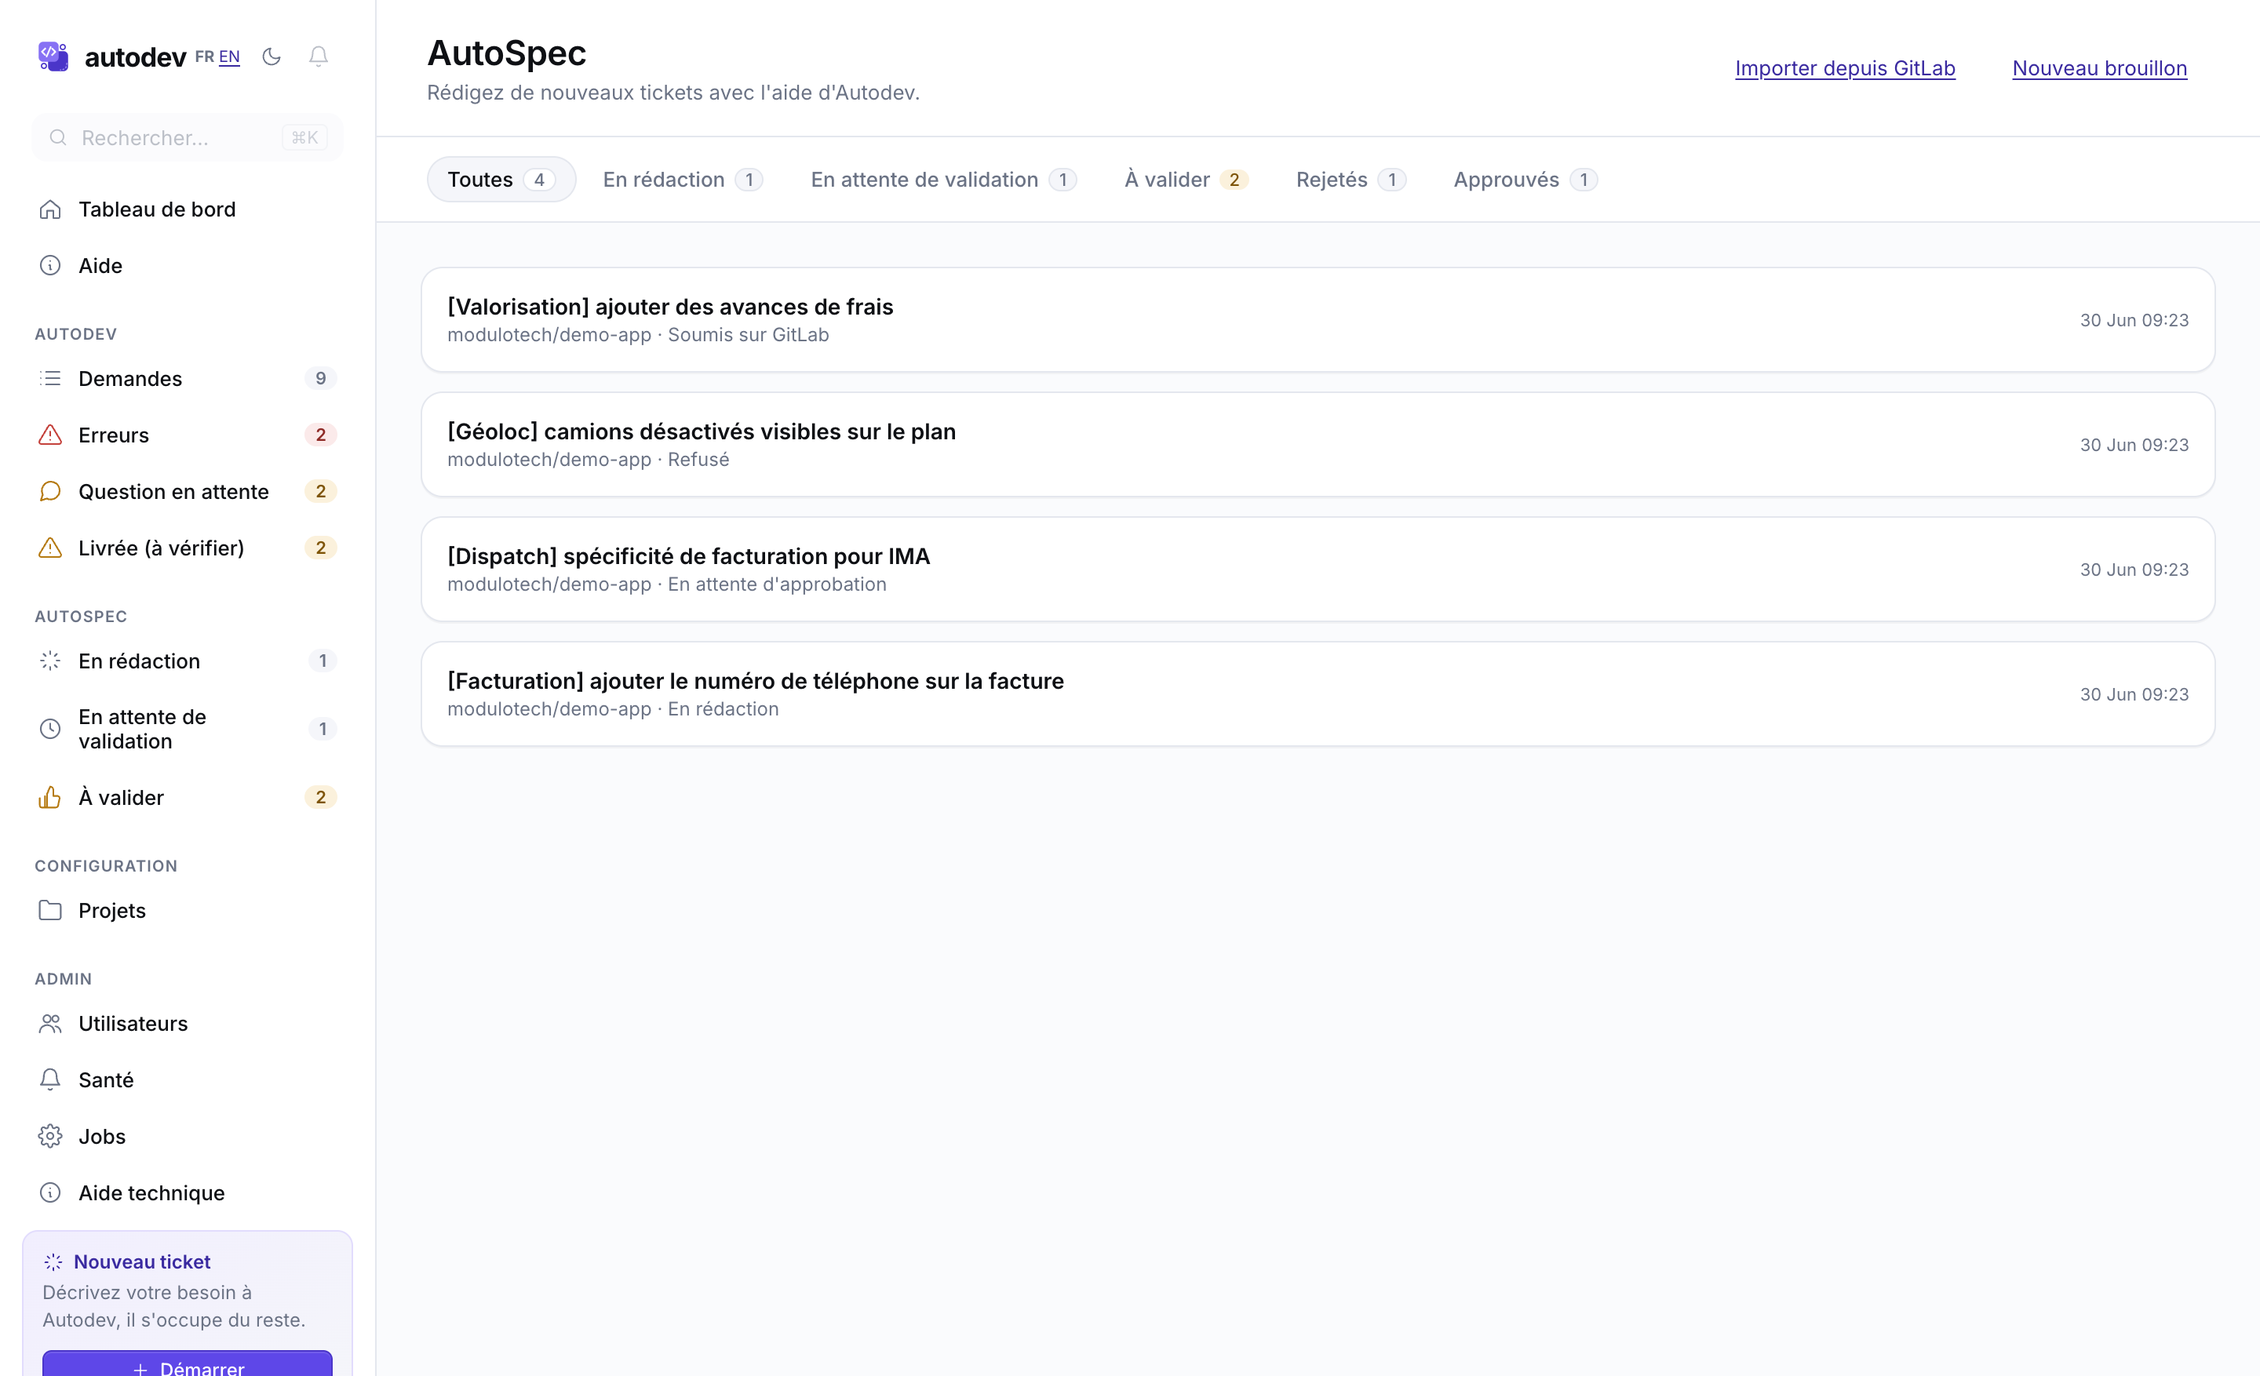
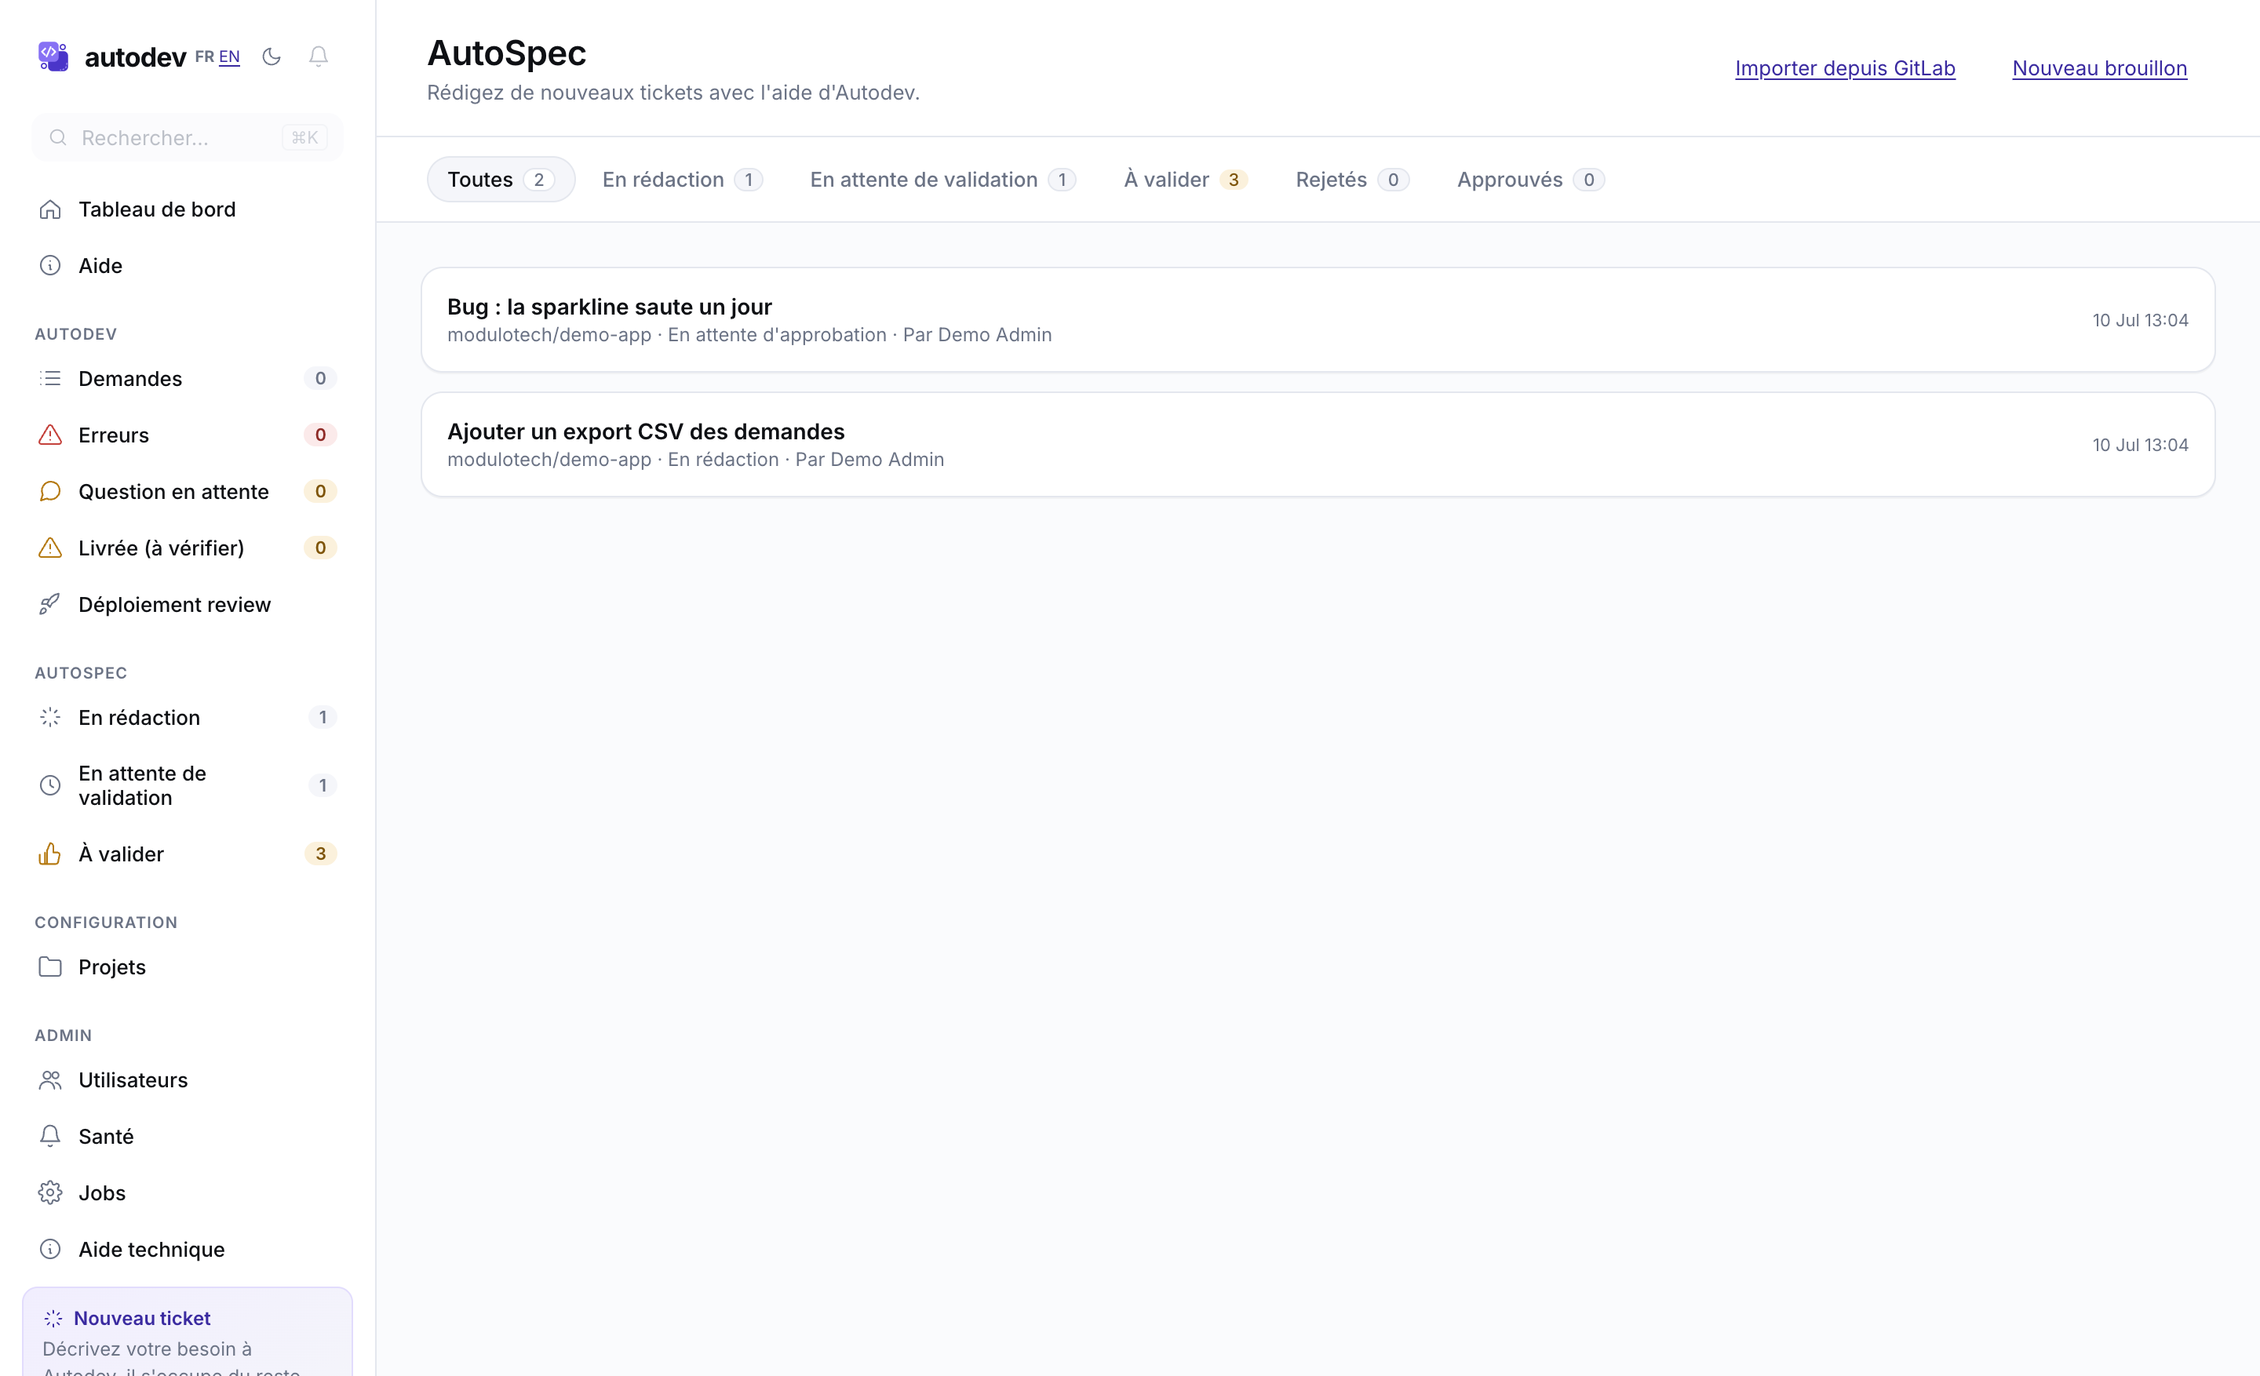
docs: refresh usage guides + screenshots for tasks #35/#38/#39/#40/#43
Sync docs/usage/autodev-functional-usage.md (/help) and
autodev-technical-usage.md (/admin/help) with the high-priority batch:

- New "Déploiement review" screen + sidebar entry, with screenshot (#43)
- Project Team tab = manual owner management (list + add/remove), replacing
  the stale "GitLab team sync coming soon" FAQ, with screenshot (#38)
- Draft author shown across the AutoSpec list tabs, refreshed screenshot (#40)
- Delete-a-draft action documented (#39)
- Contact line on delivered-review cards (#35)
- Technical routes table: /deploy_review*, /projects/:slug/owners,
  /autospec_drafts/:id/destroy; owner-sync model rewrite in the GitLab sync /
  Admin Users sections; deletable_by? / authorize_deletable! in the AutoSpec
  permissions matrix

Screenshots captured against a throwaway demo DB (no prod data). Render parity
verified (16/16 functional, 7/7 technical), no jargon leak, date bumped.

diff --git a/docs/usage/autodev-technical-usage.md b/docs/usage/autodev-technical-usage.md
@@ -2,7 +2,7 @@
 title: "Autodev — Guide technique"
 subtitle: "Routes admin, configuration projet, CLI, machine à états"
 author: "Modulotech"
-date: 2026-07-06
+date: 2026-07-10
 lang: fr
 documentclass: article
 papersize: a4
@@ -41,11 +41,16 @@ L'instance prod tourne sur `https://autodev.netbird.modulotech.fr`, derrière le
 | `/issues/:id/close` (POST) | `IssuesController#close` | Clôture manuelle (événement AASM `close`, gatée sur le membership projet) — `closed` depuis n'importe quel état |
 | `/issues/:id/deploy_review` (GET) | `IssuesController#deploy_review` | Turbo-frame paresseux : sonde la disponibilité du job `deploy_review` (`Autodev::DeployReview#availability`). Rendu **inconditionnellement** sur chaque page d'issue (task #28) — sur une issue sans branche/MR il renvoie `:no_branch` sans appel GitLab et affiche un bouton désactivé + un motif au lieu de rien |
 | `/issues/:id/deploy_review` (POST) | `IssuesController#trigger_deploy_review` | Déclenche le job CI `deploy_review` (redéploiement de l'env de review) |
+| `/deploy_review` (GET) | `DeployReviewsController#index` | Sélecteur de projet (parmi les projets visibles) + liste des MR ouvertes du projet (API GitLab, `per_page: 100`), chacune avec un `DeployReviewFrame` paresseux ; MR déjà suivie annotée d'un badge vers la fiche issue (task #43) |
+| `/deploy_review/mr` (GET) | `DeployReviewsController#availability` | Sonde paresseuse (`project`, `mr_iid`) — `Autodev::DeployReview#availability` sur une `Target` légère (`project_path`, `branch_name`, `mr_iid`) au lieu d'une row Issue |
+| `/deploy_review/mr` (POST) | `DeployReviewsController#trigger` | Déclenche le déploiement (`project`, `mr_iid`), audit `deploy_review.manual`. `authorize_project!` (403 hors projets visibles) gate `availability` **et** `trigger` — la sécurité ne repose pas sur l'UI |
 | `/projects` | `ProjectsController#index` | Union des rows `projects` + entrées YAML pas encore importées |
 | `/projects/new` (+ POST `create`) | `ProjectsController#new`/`#create` | Création d'un projet en base (admin only) — enfile `SyncGitlabMembershipsJob` au succès |
 | `/projects/:slug/edit` (+ PATCH `update`) | `ProjectsController#edit`/`#update` | Édition de la config per-projet en base (gatée membership/admin) |
 | `/projects/:slug/ticket_templates` (index/new/create) | `TicketTemplatesController` | Modèles de ticket AutoSpec du projet (gaté membership/admin, 404 si pas de row projet) |
 | `/projects/:slug/ticket_templates/:id` (edit/update/destroy) | `TicketTemplatesController` | Édition / suppression d'un modèle (`:id` numérique) |
+| `/projects/:slug/owners` (POST) | `ProjectOwnersController#create` | Promeut un membre du projet (`user_id`) au rôle `owner` — audit `project.owner_granted`. Gaté `can_manage_owners?` (admin ou owner du projet), 403 sinon ; refus si le candidat n'est pas membre (task #38) |
+| `/projects/:slug/owners/:user_id` (DELETE) | `ProjectOwnersController#destroy` | Rétrograde un owner en `contributor` — audit `project.owner_revoked`. Même gate |
 | `/projects/:slug` | `ProjectsController#show` | Slug = `group/sub/name` encodé en `group__sub__name` |
 | `/stream` | `StreamController#show` | Server-Sent Events, `ActionController::Live` |
 | `/locale/:lang` | `LocaleController#update` | Set le cookie `locale`, redirige sur `back` |
@@ -57,6 +62,7 @@ L'instance prod tourne sur `https://autodev.netbird.modulotech.fr`, derrière le
 | `/autospec_drafts/:id/chat` (POST) | `AutospecDraftsController#chat` | Tour de chat (`Autospec::Chat`), 503 si clé Anthropic absente |
 | `/autospec_drafts/:id/apply_suggestion` (POST) | `AutospecDraftsController#apply_suggestion` | Applique un `tool_use` proposé par le modèle |
 | `/autospec_drafts/:id/{submit_for_approval,retract,approve,reject}` (POST) | `AutospecDraftsController` | Workflow d'approbation (§J) |
+| `/autospec_drafts/:id/destroy` (POST) | `AutospecDraftsController#destroy` | Hard-delete d'un brouillon non `submitted` (route brute, pas une action `resources` — Rails replierait un membre `destroy` sur `/:id`). Gaté `authorize_deletable!` (auteur / owner / admin), 409 `draft_not_deletable` si `submitted` (task #39) |
 | `/autospec_drafts/:id/autospec_attachments` (POST + DELETE `:id`) | `AutospecAttachmentsController` | Pièces jointes image (ActiveStorage, ≤ 10 Mo) |
 | `/help` | `HelpController#show` | Guide utilisateur rendu (`HelpDoc.render(:functional)`) |
 | `/help/images/:filename` | `HelpController#image` | Captures d'écran des deux guides (partagé) |
@@ -98,7 +104,7 @@ Colonnes :
 - **Status** — `active` ou `inactive` (rebasculé selon les memberships GitLab) ;
 - **Memberships** — entrées de `project_memberships`, rôle `owner` ou `contributor`.
 
-Les memberships sont dérivés d'une synchro GitLab (commande CLI `--sync-memberships`). Pas d'édition manuelle depuis l'UI : la sync GitLab fait foi. Pour bootstrapper le premier admin, utiliser `autodev --seed-admin EMAIL`.
+Depuis la task #38, seuls les **contributeurs** sont dérivés de la synchro GitLab (`--sync-memberships`, access-level ≥ 20). Le rôle **owner** est une désignation **manuelle** (onglet *Équipe* d'un projet, `ProjectOwnersController`) : la synchro ne crée, ne rétrograde ni ne révoque jamais un owner. Il n'y a donc pas d'édition des contributeurs depuis l'UI (la sync GitLab fait foi), mais les owners, eux, se gèrent à la main. Pour bootstrapper le premier admin, utiliser `autodev --seed-admin EMAIL`.
 
 \newpage
 
@@ -199,6 +205,8 @@ Les commandes d'environnement (`setup`/`test`/`lint`/`run`) vivent à part dans 
 ## Synchronisation GitLab
 
 Les memberships sont alimentés par `autodev --sync-memberships` (manuel ou via la tâche planifiée `0 3 * * *`).
+
+`Autodev::GitlabMembershipSync` mappe l'access-level GitLab ≥ 20 (reporter) vers `contributor`, et rien en dessous — le seuil `owner` a disparu du mapping (task #38). À la réconciliation, les rows `owner` sont **exclues** : jamais rétrogradées, jamais révoquées. Le rôle `owner` est donc désormais posé **exclusivement à la main** via l'onglet *Équipe* de la page projet, et sert de marqueur fiable de « désignation manuelle » (aucune colonne dédiée). Une data-migration (`20260710000001_convert_project_owners_to_contributors`) a rétrogradé tous les owners hérités de l'ancienne synchro : après déploiement, un projet n'a plus aucun owner tant qu'un admin n'en désigne (amorçage manuel assumé).
 
 Attention : un `--sync-memberships` lancé sur une base `projects` vide désactive silencieusement tous les users. Toujours vérifier `Project.count > 0` avant de lancer la sync.
 
@@ -428,8 +436,9 @@ Prédicats portés par le modèle (appelés par le contrôleur ET les vues pour 
 - `destination_choosable_by?` — contributeur-auteur → `human` seulement ; owner-auteur → `human` ou `autodev` (le « envoyer à AutoDev » est un verrou produit owner-only).
 - `retractable_by?` — auteur + `pending_approval`.
 - `votable_by?` — owner du projet + `pending_approval` (l'idempotence « déjà voté à cette itération » est vérifiée par `ApprovalRecorder`, pas ici).
+- `deletable_by?` — non `submitted` ET (auteur OU owner du projet OU admin) : autorise le hard-delete tant que le brouillon n'est pas validé (`drafting` / `pending_approval` / `rejected`) — task #39.
 
-`AutospecDraftsController` applique trois before-actions : `authorize_view!` (show), `authorize_voter!` (approve/reject), `authorize_author!` (le reste).
+`AutospecDraftsController` applique quatre before-actions : `authorize_view!` (show), `authorize_voter!` (approve/reject), `authorize_deletable!` (destroy), `authorize_author!` (le reste). `authorize_deletable!` vérifie le **rôle** (403 si ni auteur, ni owner, ni admin) indépendamment de l'état ; la garde d'**état** (409 `draft_not_deletable` sur un brouillon `submitted`, déjà exporté vers GitLab) est appliquée dans `#destroy`. Les dépendances (`autospec_messages` / `autospec_attachments` / `autospec_approvals`) sont nettoyées par les `dependent: destroy` existants.
 
 ## Services
 

diff --git a/CHANGELOG.md b/CHANGELOG.md
@@ -7,10 +7,12 @@
 - **"Livrée (à vérifier)" cards now tell the CSM who to contact (task #35).** The yellow "Intervention manuelle requise" panel shown for `needs_attention` rows (`stagnation_pipeline`, `stagnation_discussions`, `review_limit_reached`, `review_failures_exhausted`) explained the problem but never said who could act on it. `WatchCards#render_cause_panel` now renders a common contact line (new `web_errors_contact` i18n key) under the cause body, gated on `row[:needs_attention]` — it does not appear on the plain `/errors` failures or on pending `needs_clarification` questions.
 - **The AutoSpec drafts list now shows each draft's author on every tab (task #40).** The row meta line only showed "project · status", so on the "À valider" tab a validator saw drafts written by other users with no indication of who wrote them. `Web::Views::AutospecDrafts::Index#render_row_body` now appends "· Par <auteur>" (new `web_autospec_author` key) to the meta line on every tab, using a new private `author_display` helper (`draft.author.name`, falling back to `email`). Both data sources already eager-load the author (`includes(:project, :user)` in the controller and in `AutospecDraft.awaiting_vote_of`), so no additional query is introduced.
 - **AutoSpec drafts can now be deleted before they're submitted (task #39).** `AutospecDraft#deletable_by?(user)` allows a hard delete (messages/attachments/approvals cascade via existing `dependent: destroy`) on any state that isn't `submitted` — `drafting`, `pending_approval`, and `rejected` are all "not yet validated" — for the draft's author, a project owner, or a platform admin; a `submitted` draft (already exported to GitLab) always refuses with a `draft_not_deletable` conflict. New `POST /autospec_drafts/:id/destroy` member route (declared as a raw route rather than a `resources` member action, since Rails folds member routes named `destroy` back onto the bare `/autospec_drafts/:id` path). The Show page gets a "Supprimer" button next to the retract form, gated on `deletable_by?` and guarded by a `data-confirm` prompt — never rendered on the `/autospec_drafts` index cards (each row is already an enclosing `<a>`, and a nested form there would be invalid HTML).
+
 ### Changed
 
 - **Project owner is now a 100% manual designation, no longer derived from GitLab access level (Autodev #38).** `Autodev::GitlabMembershipSync` mapped GitLab access_level ≥ 40 (Maintainer) straight to the local `owner` role and reconciled destructively on every login and every nightly sync — on a project like PowerPanne this made every maintainer an owner, and owners gate AutoSpec draft approval, which doesn't hold. `role_for_access_level` now maps any access_level ≥ 20 (Reporter and up) to `contributor` only; the owner threshold is gone from the mapping. `reconcile_memberships!` excludes `owner` rows entirely — they're never downgraded or revoked by the sync, whatever GitLab reports (a manually-designated owner who loses all GitLab access stays owner until removed by hand, an accepted v1 gap). A new data migration (`ConvertProjectOwnersToContributors`) downgrades every pre-existing `owner` row to `contributor`, so no project has an owner post-deploy until one is designated. The project page's Team tab (previously a "coming soon" placeholder) now manages owners: lists current owners with a Remove button, and — for an admin or an existing owner (`can_manage_owners?`) — an "add owner" select restricted to the project's current members (contributors already synced from GitLab, no extra API call) with an Add button. New `ProjectOwnersController` (`POST`/`DELETE /projects/:slug/owners[/:user_id]`) enforces that an owner must be a project member and records `project.owner_granted` / `project.owner_revoked` audit entries.
 - **Deploy a review environment for a merge request autodev never tracked (task #43).** New `/deploy_review` page (sidebar entry "Déploiement review"): pick a project from `current_user.visible_projects`, then see its open MRs (title, iid, source branch, author) via the GitLab API, each with a Déployer/Redéployer button whose availability is resolved lazily (same UX as the existing per-issue button). An MR already tracked by autodev (`Issue.where(project_path:, mr_iid:)`) is annotated with a "Suivie par autodev" badge linking to its ticket rather than hidden — redeploying is idempotent either way. `Autodev::DeployReview` needed zero changes: it already only reads `project_path`/`branch_name`/`mr_iid`, so the new surface drives it with a lightweight `Autodev::DeployReview::Target` struct instead of an `Issue` row. `Web::Views::DeployReviewFrame` (the lazy turbo-frame button) is generalized to accept an explicit `frame_id`/`src`/`submit_action`/`hidden_fields` instead of being hardwired to `issue_id`, with the original ticket-page behavior as the default — one component now serves both surfaces. New `DeployReviewsController` (`#index`, `#availability`, `#trigger`) gates `#availability`/`#trigger` behind `authorize_project!` (admin, or `project_path` among the user's visible projects) — the security boundary an arbitrary MR needs but a tracked issue gets for free via `issues_dataset` filtering. New tests: `test/controllers/deploy_reviews_controller_test.rb`, `Target`-based cases in `test/services/autodev/deploy_review_test.rb`, and a parameterized-frame variant in `test/components/web/views/deploy_review_frame_test.rb`.
+- **Refreshed the user & technical usage guides for the tasks above (#35/#38/#39/#40/#43).** `docs/usage/autodev-functional-usage.md` and `autodev-technical-usage.md` (rendered live at `/help` and `/admin/help`): documented the new "Déploiement review" screen + sidebar entry, the manual owner management in the project Team tab (and replaced the now-false "GitLab team sync coming soon" FAQ), the draft author shown across the AutoSpec list tabs, the delete-a-draft action, and the contact line on delivered-review cards; added the new routes (`/deploy_review*`, `/projects/:slug/owners`, `/autospec_drafts/:id/destroy`) and the `deletable_by?` / `authorize_deletable!` details to the technical routes table and AutoSpec permissions matrix. Screenshots not yet recaptured (text-only refresh).
 
 ## [1.0.0-alpha.41] - 2026-07-07
 
